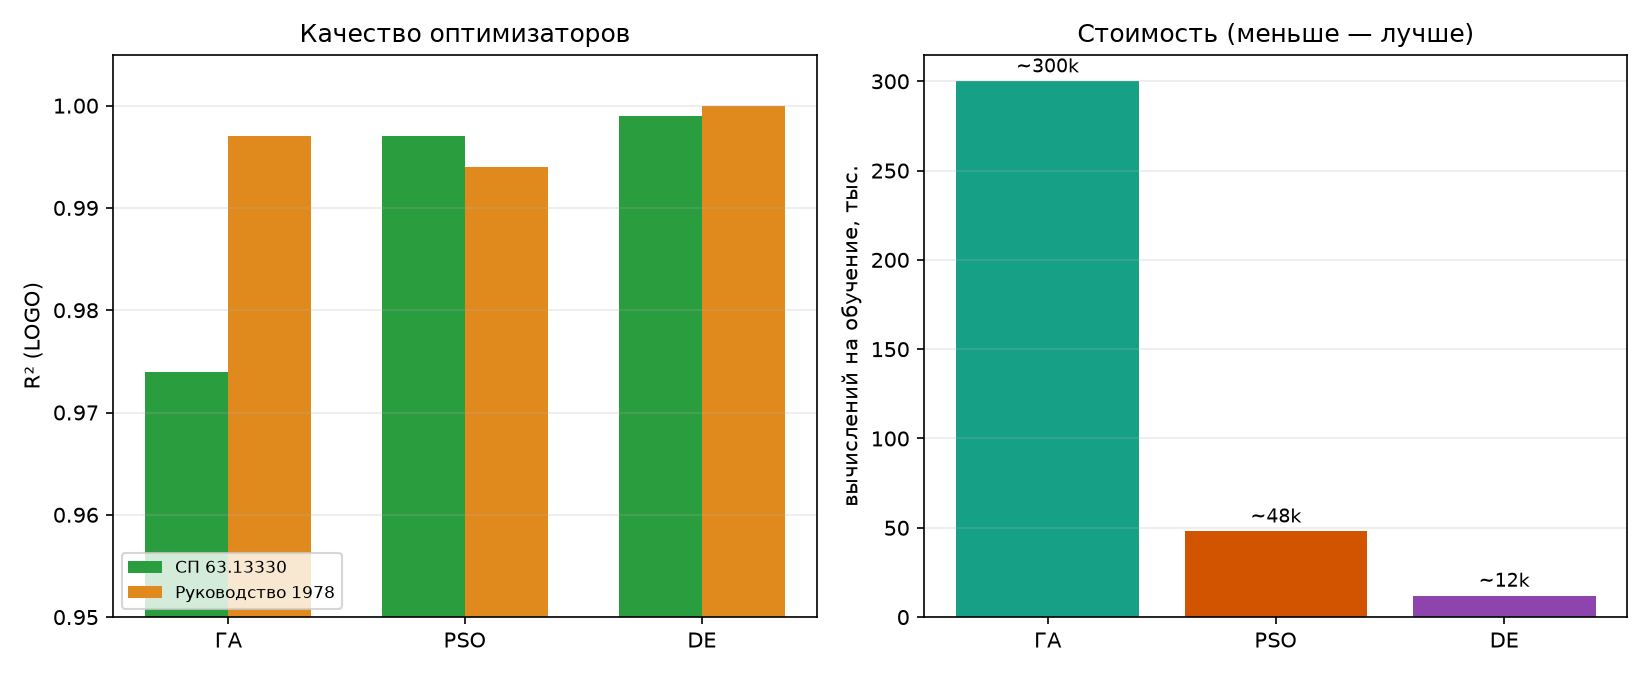
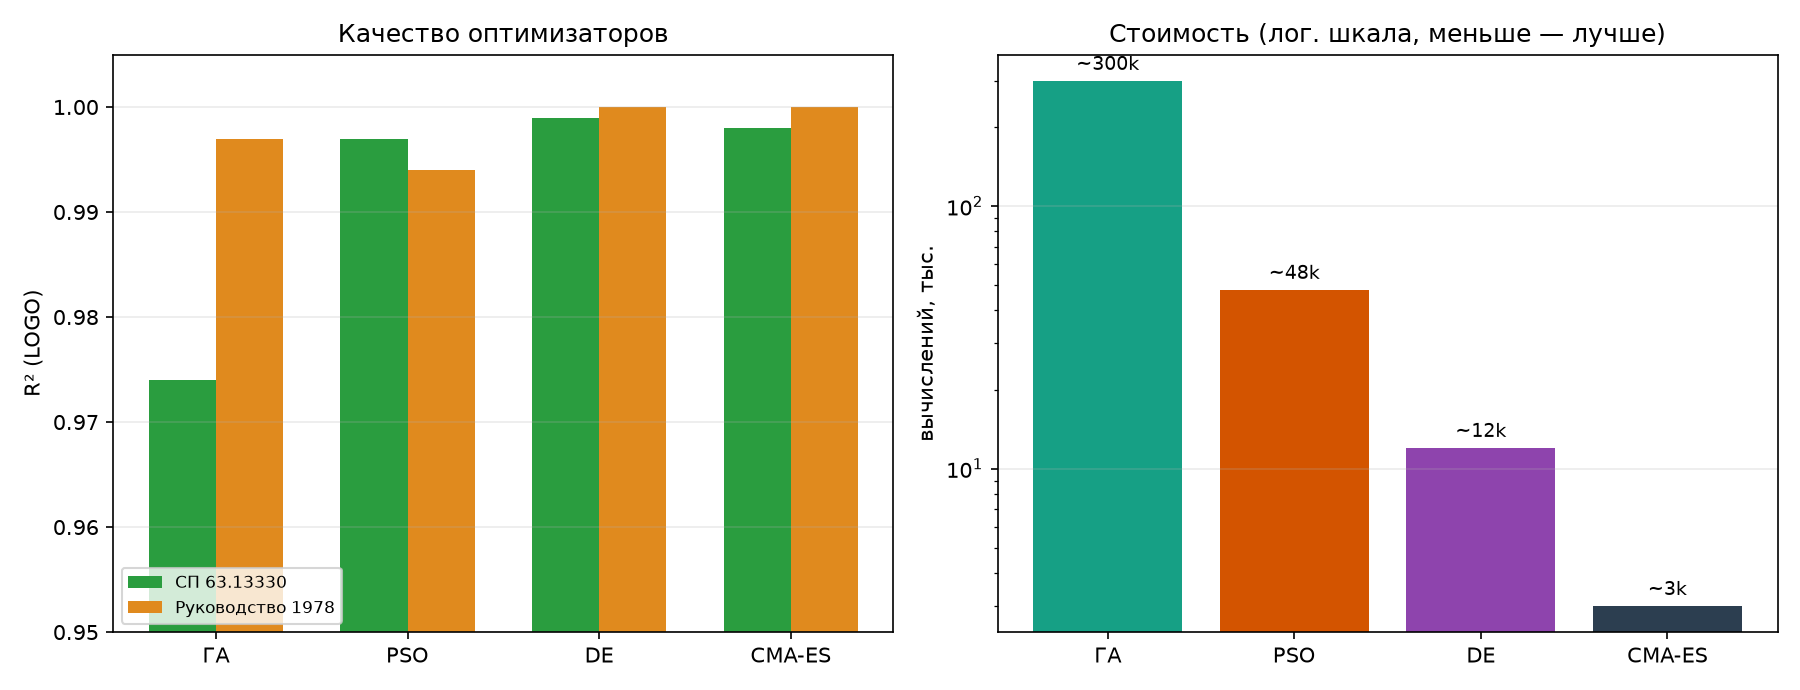
feat(cmaes): new docs for method added

diff --git a/docs/report_08_optimizers_comparison.md b/docs/report_08_optimizers_comparison.md
@@ -1,0 +1,117 @@
+# Сравнение биоинспирированных оптимизаторов
+
+Сводный отчёт по четырём биоинспирированным оптимизаторам — генетическому алгоритму
+(ГА), рою частиц (PSO), дифференциальной эволюции (DE) и CMA-ES. Все они ищут **одну
+и ту же** степенную формулу $Q_\text{дв} = a \cdot \prod_i x_i^{p_i}$ на одних данных
+и по одной схеме оценки — меняется только оптимизатор. Это прямой ответ на пункт ТЗ
+**«сравнение оптимизаторов между собой»**. Отдельные отчёты: ГА
+([report_05](report_05_genetic_algorithm.md)), DE
+([report_06](report_06_differential_evolution.md)), PSO
+([report_07](report_07_pso.md)); CMA-ES описан здесь.
+
+## 1. Постановка
+
+Сравнение честно, потому что зафиксировано всё, кроме оптимизатора: степенная форма,
+логарифмическая целевая функция, 18 образцов, Leave-One-Group-Out по 6 профилям,
+`SEED = 1337`. Отличаются только алгоритмы поиска коэффициентов:
+
+- **ГА** — популяция «особей», турнирная селекция + кроссовер + мутация. Ручная реализация.
+- **PSO** — рой частиц, тяга к личному и глобальному лучшему. Ручная реализация.
+- **DE** — эволюция через разностные векторы. Реализация `scipy`.
+- **CMA-ES** — адаптация ковариационной матрицы. Реализация библиотеки `cma`.
+
+## 2. CMA-ES
+
+CMA-ES (Covariance Matrix Adaptation Evolution Strategy) — самый «умный» из четырёх:
+он адаптирует не только величину шага, но и **форму** области поиска (ковариационную
+матрицу), подстраиваясь под геометрию задачи. Поэтому почти не требует настройки —
+единственная ручка `maxiter`, и к ней результат нечувствителен. Импорт библиотеки
+`cma` сделан ленивым: `bio_cmaes` регистрируется даже без неё, а сама библиотека
+нужна только при запуске.
+
+| Метрика | СП 63.13330 | Руководство 1978 |
+|---------|:-----------:|:----------------:|
+| $R^2$ (LOGO) | 0.998 | 1.000 |
+| RMSE, кН | 1.69 | 1.19 |
+| $Q_\text{эксп}/Q_\text{пред}$ | 1.007 | 1.006 |
+| within15 | 100 % | 100 % |
+| overfit | 0.001 | 0.000 |
+
+Восстановленные формулы:
+
+- **СП63:** $Q_\text{дв} = 1.1{\cdot}10^{-8} \cdot H^{1.07} \cdot s^{0.97} \cdot R^{0.03} \cdot E^{1.29}$
+- **РУК78:** $Q_\text{дв} = 3.5{\cdot}10^{-9} \cdot H^{1.11} \cdot s^{0.92} \cdot R^{0.23} \cdot E^{1.31}$
+
+![CMA-ES, эксперимент–предсказание, СП 63.13330](figures/scatter_cmaes_SP63.png)
+
+*Рисунок 1 – CMA-ES, эксперимент–предсказание, СП 63.13330*
+
+![CMA-ES, эксперимент–предсказание, Руководство 1978](figures/scatter_cmaes_RUK78.png)
+
+*Рисунок 2 – CMA-ES, эксперимент–предсказание, Руководство 1978*
+
+CMA-ES практически идеален — на уровне DE, но с наименьшей стоимостью.
+
+## 3. Сводное сравнение
+
+| Метрика | ГА | PSO | DE | CMA-ES |
+|---------|:---:|:---:|:---:|:---:|
+| **СП63** $R^2$ | 0.974 | 0.997 | **0.999** | 0.998 |
+| СП63 RMSE, кН | 6.66 | 2.35 | **1.51** | 1.69 |
+| СП63 RMSE худшего проф. | 15.6 | 3.68 | 3.49 | 3.63 |
+| **РУК78** $R^2$ | 0.997 | 0.994 | **1.000** | **1.000** |
+| РУК78 RMSE, кН | 3.64 | 5.31 | 1.20 | **1.19** |
+| within15 (обе цели) | 94–100 % | 100 % | 100 % | 100 % |
+| overfit (макс.) | 0.025 | 0.006 | 0.001 | 0.001 |
+| устойчивость (3 зерна, $R^2$) | 0.954 / 0.996 | 0.995 / 0.993 | 0.998 / 0.999 | 0.998 / 0.999 |
+| вычислений на обучение | ~300 000 | ~48 000 | ~12 000 | **~3 000** |
+
+![Качество и стоимость оптимизаторов](figures/optimizers_compare.png)
+
+*Рисунок 3 – Четыре оптимизатора: R² (слева) и стоимость в лог-шкале (справа)*
+
+![Цена и качество оптимизаторов](figures/optimizers_pareto.png)
+
+*Рисунок 4 – Цена/качество: чем левее и выше, тем лучше (DE и CMA-ES доминируют)*
+
+**Ранжирование:**
+
+1. **DE и CMA-ES — со-лидеры.** Оба практически точны ($R^2 \approx 1$), стабильны по
+   зёрнам и дёшевы. CMA-ES — **самый экономный** (~3 тыс. вычислений), DE — чуть
+   точнее по RMSE. Для практики любой из двух — лучший выбор.
+2. **PSO — крепкий второй эшелон.** Точность высокая (100 % в ±15 %), но дороже
+   лидеров и чувствителен к бюджету; слабое место — стальной H=200 на РУК78.
+3. **ГА — слабейший.** Дороже всех на порядок (~300 тыс.), нестабилен по зёрнам,
+   на СП63 заметно уступает. Честная оговорка: ГА и PSO — **ручные** реализации, а
+   DE и CMA-ES — **зрелые библиотечные**, так что разрыв отражает и алгоритм, и
+   качество кода.
+
+## 4. Что объединяет все четыре
+
+Несмотря на разброс по стоимости, **все четыре оптимизатора восстановили формулу
+хорошо** ($R^2$ от 0.97 до 1.0). Отсюда главный вывод сравнения:
+
+- **Определяющим оказывается не оптимизатор, а форма.** Степенная форма — правильная
+  структура для этой задачи (целевые величины сами являются степенными формулами),
+  поэтому к почти точному решению приходят все. Оптимизатор влияет лишь на **цену и
+  устойчивость** сходимости, а не на потолок качества.
+- **Все согласованно подтверждают физику:** показатель при `a/h₀` ≈ 0 (иррелевантность
+  пролёта среза), устойчивые показатели при `H` и `s` (≈ 1). А вот показатели при
+  коллинеарных `R`/`E` у каждого оптимизатора свои — **не идентифицируемы**;
+  интерпретировать можно только устойчивую часть формулы.
+
+## 5. Выводы
+
+- **Лучшие оптимизаторы для задачи — DE и CMA-ES:** near-perfect восстановление
+  формулы, устойчивость и низкая стоимость. CMA-ES — самый дешёвый, DE — чуть точнее.
+- **Иерархия:** DE ≈ CMA-ES > PSO > ГА — как по точности, так и по стоимости и
+  устойчивости.
+- **Ключевой методический вывод:** на этой задаче **важнее правильно выбрать форму
+  формулы, чем оптимизатор** — с верной (степенной) формой к потолку приходят все, а
+  выбор оптимизатора определяет лишь эффективность.
+- **Оговорка честности:** ручные ГА/PSO против библиотечных DE/CMA-ES — сравнение
+  отражает не только алгоритмы, но и зрелость реализации.
+
+Воспроизведение. Прогон любого оптимизатора — `bio_ga` / `bio_pso` / `bio_de` /
+`bio_cmaes` (через интерактив, `group` или обёртки в `entrypoint/single/`). Подбор
+параметров любого — `python tools/tune_optimizer.py --optimizer <имя> --grid …`.